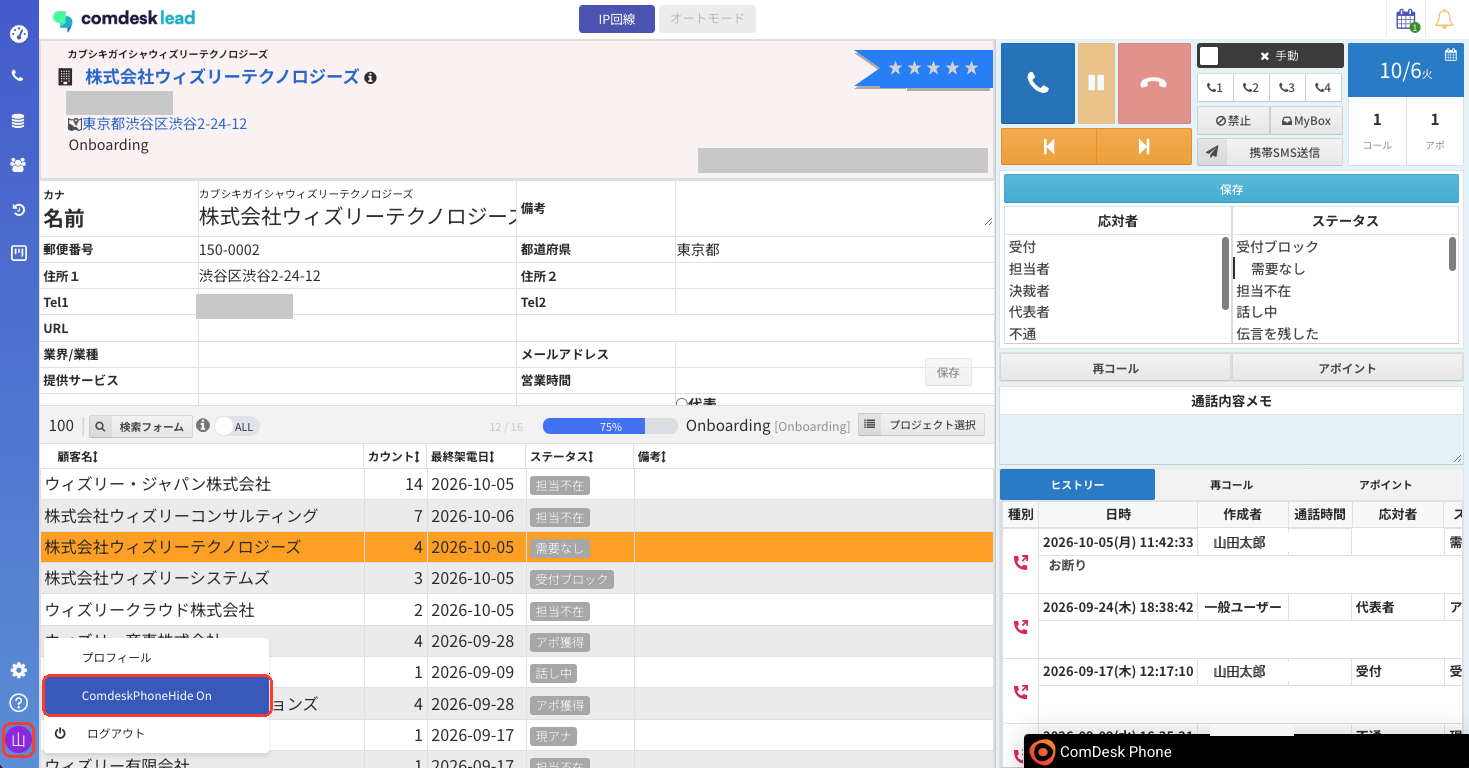
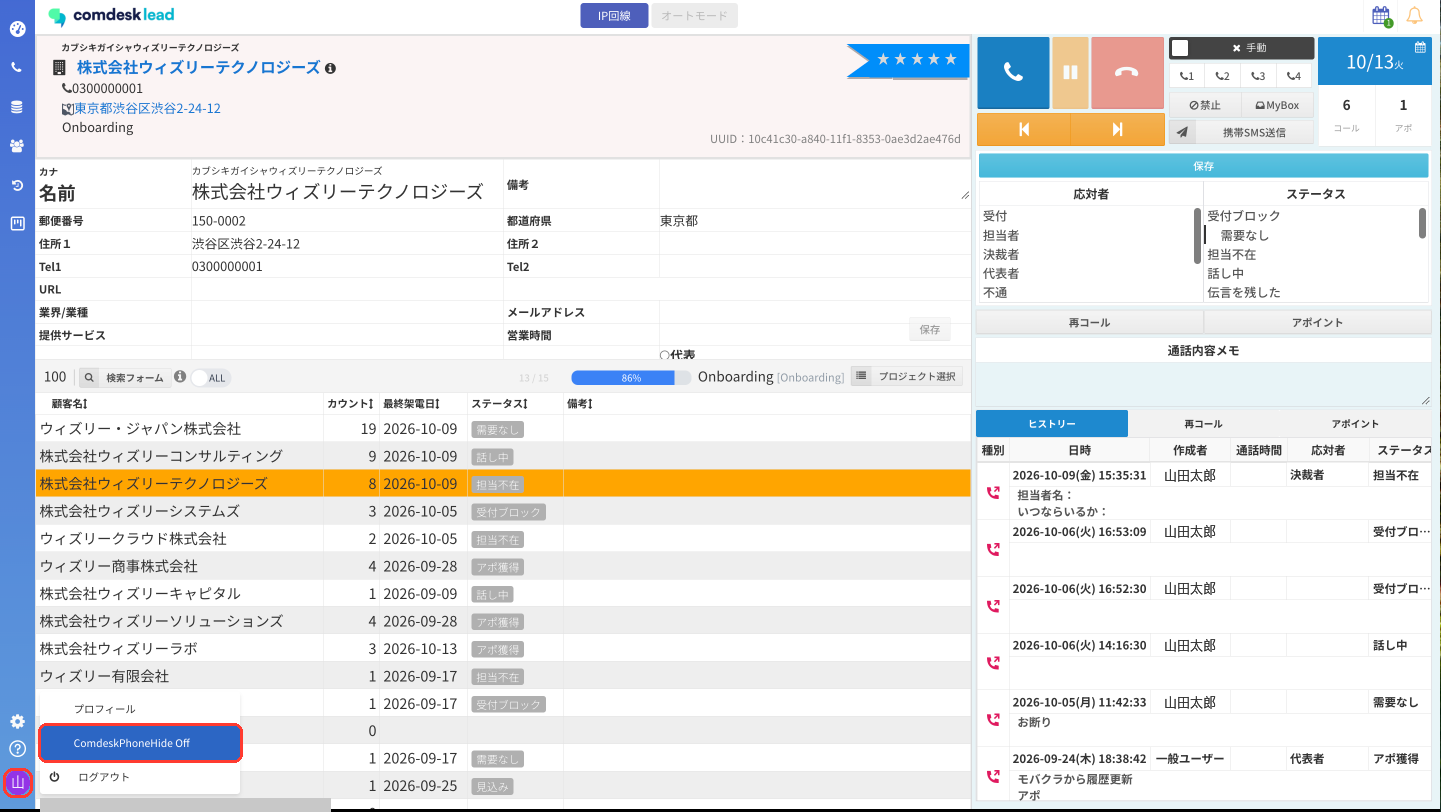
IP回線: ComdeskPhoneHideの説明を実際の挙動に合わせ、画像を差し替え

Changed region(s): [[0.0, 0.0, 1.0, 1.0], [0.4372, 0.3125, 0.4997, 0.3438], [0.6246, 0.375, 0.6558, 0.4062]]

diff --git a/guide/user/12773908516505.md b/guide/user/12773908516505.md
@@ -40,7 +40,7 @@ IP回線で架電する方法をご案内します。
 
     **最小化したバーも表示されていない場合**
 
-    画面左下のアカウントアイコンを選択し、「ComdeskPhoneHide off」を選択してください。
+    画面左下のアカウントアイコンを選択し、「ComdeskPhoneHide Off」をクリックしてください。「On」に切り替わり、ComDesk Phoneの黒いバーが表示されます。
 
     <Frame caption="アカウントアイコンのメニュー">
       <img src="/.gitbook/assets/12773908516505_3.png" alt="アカウントアイコンのメニューに表示されたComdeskPhoneHide Off" />
